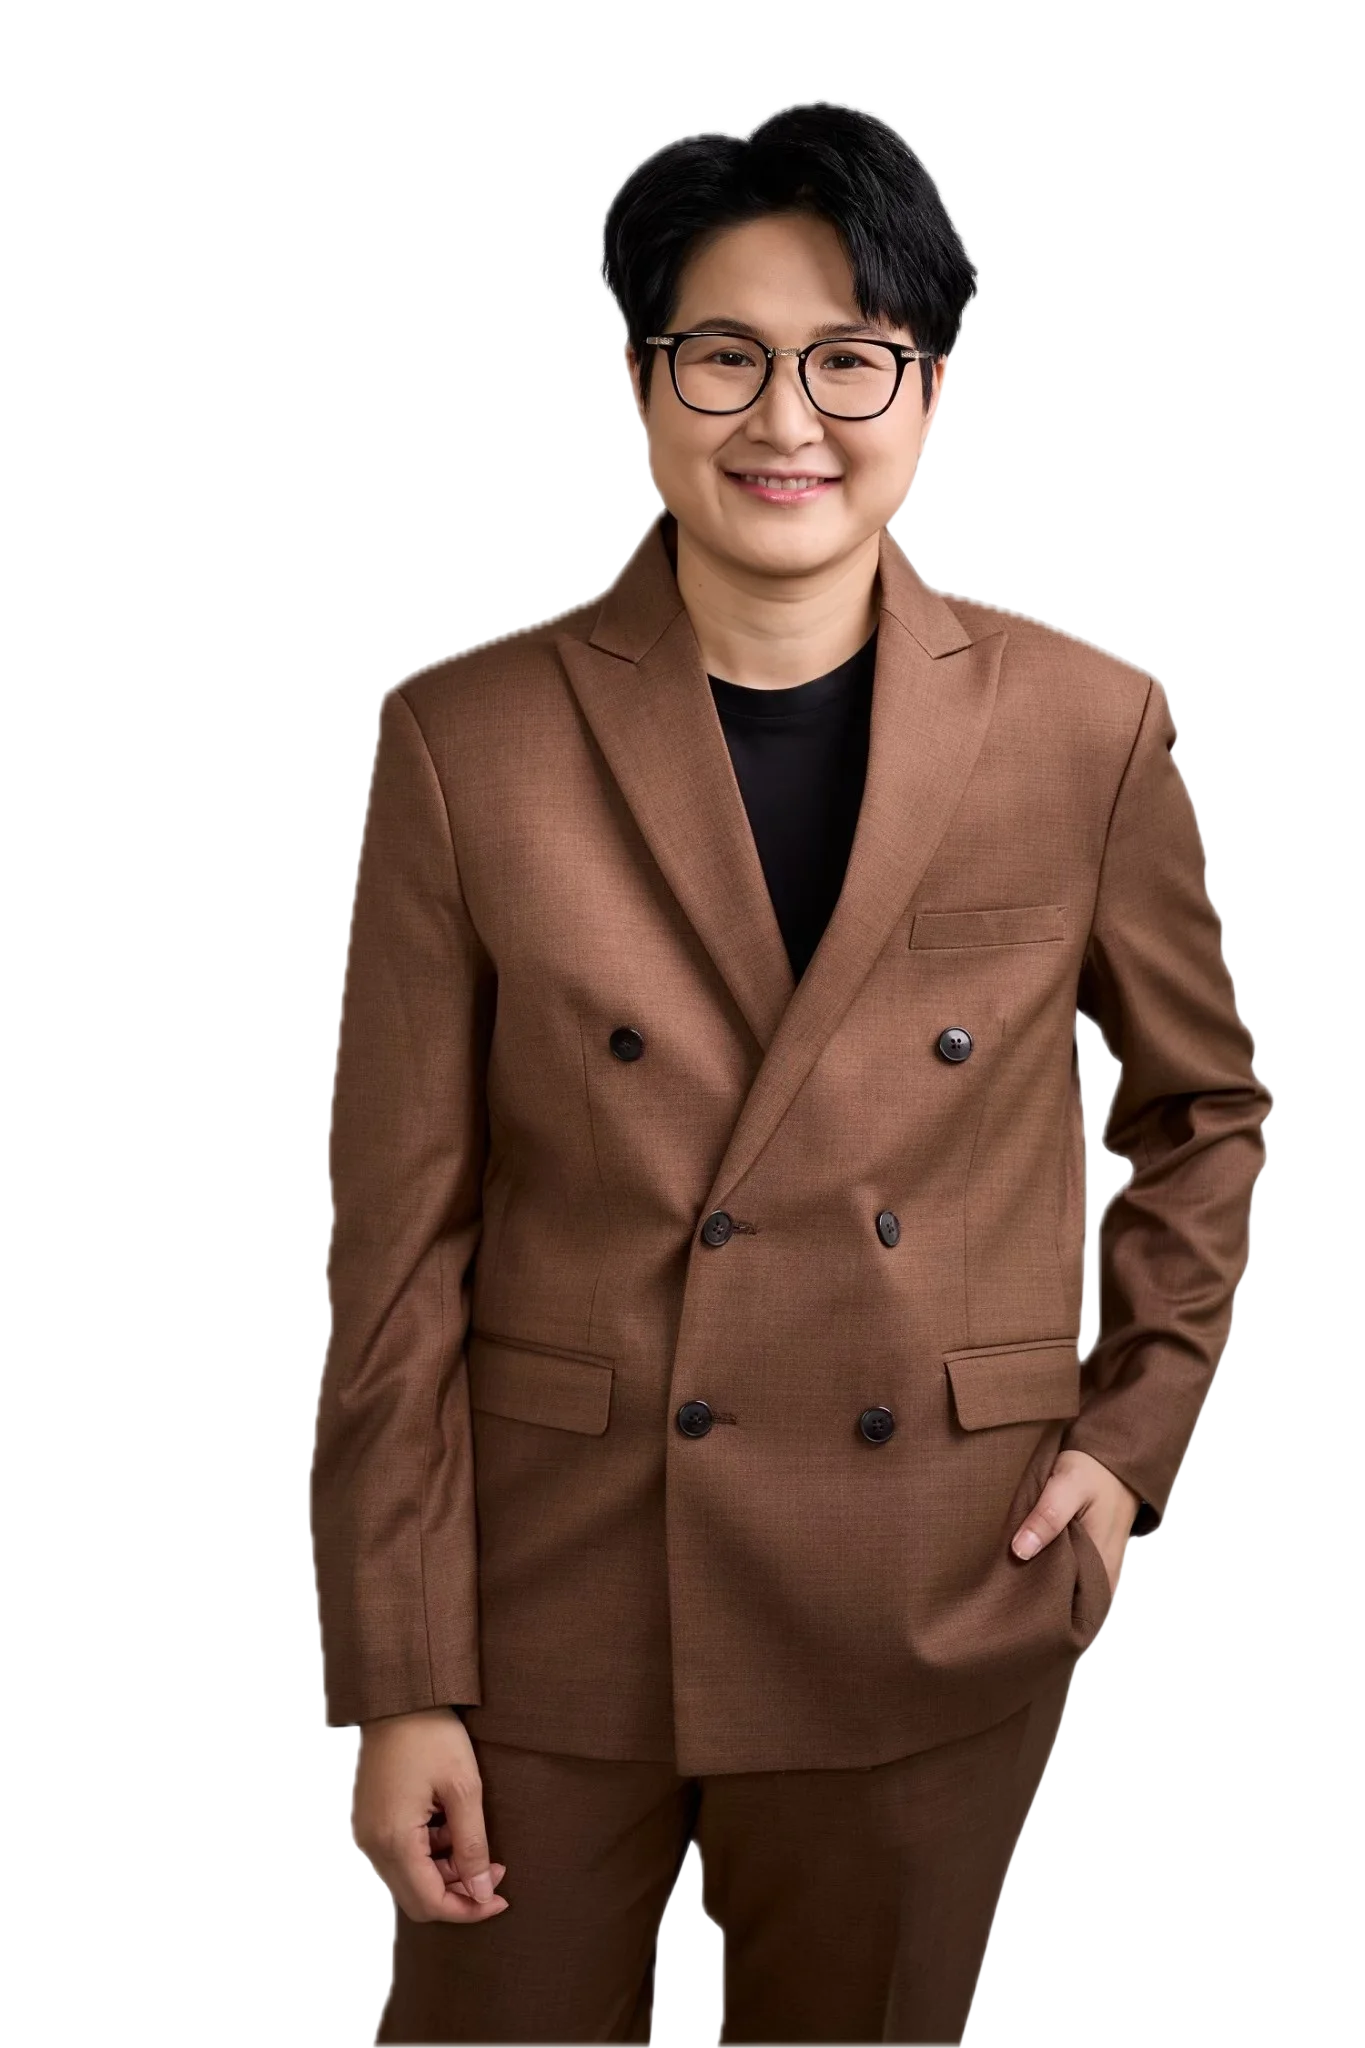
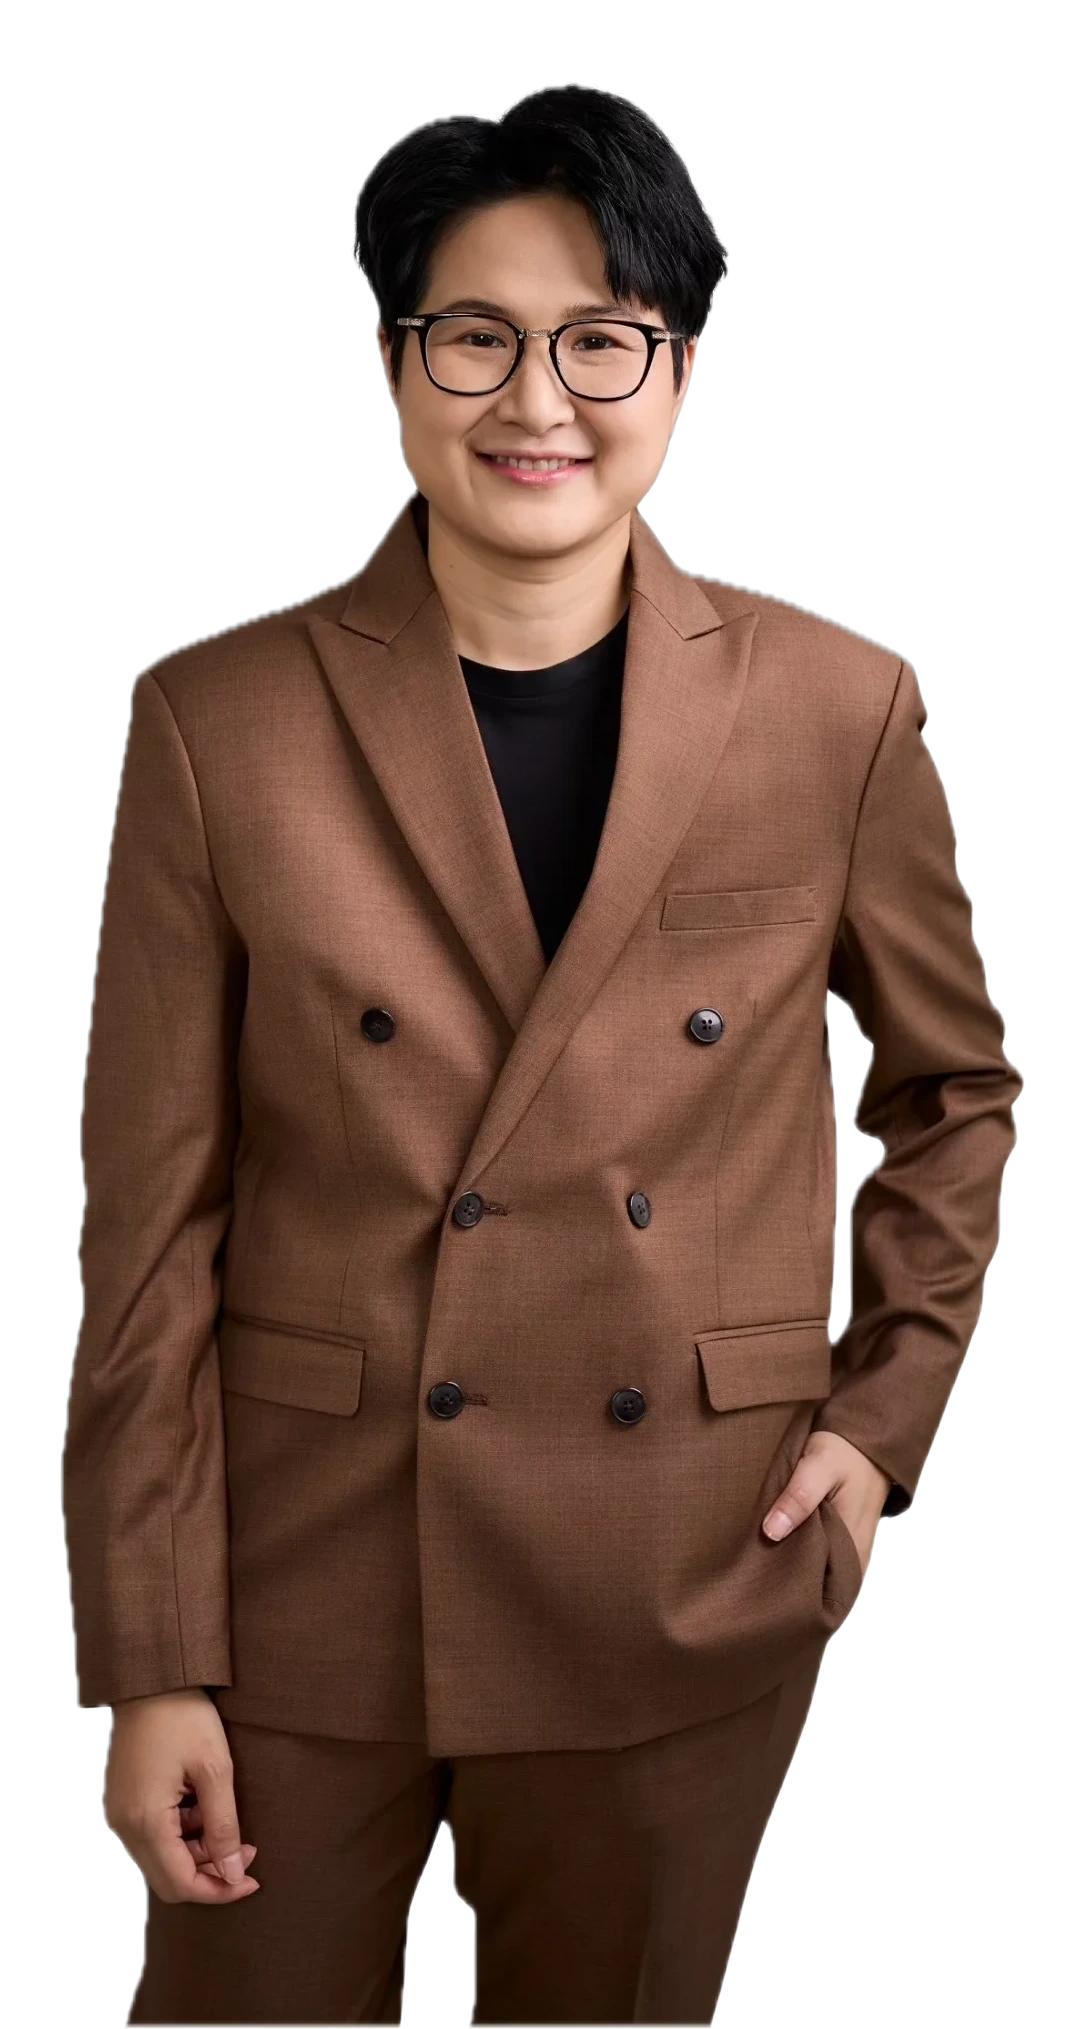
fix(ui): enlarge profile portrait in LandingHero — trim transparent margins
profile.webp had a wide transparent left margin so the subject rendered small
and off-center. Trimmed to the subject bbox (+ small air padding) and switched
the frame to object-cover object-top so วิน fills the frame (~40% larger).

diff --git a/src/components/landing/LandingHero.tsx b/src/components/landing/LandingHero.tsx
@@ -64,7 +64,7 @@ export default function LandingHero() {
                   alt={hero.name}
                   loading="lazy"
                   decoding="async"
-                  className="absolute top-0 left-0 w-full h-auto -translate-x-[5%]"
+                  className="absolute inset-0 w-full h-full object-cover object-top"
                 />
                 <div className="absolute inset-0 pointer-events-none rounded-card shadow-[inset_0_0_30px_10px_rgba(0,0,0,0.5)]"></div>
                 <div className="absolute bottom-0 left-0 right-0 h-20 bg-gradient-to-t from-bg to-transparent pointer-events-none"></div>
